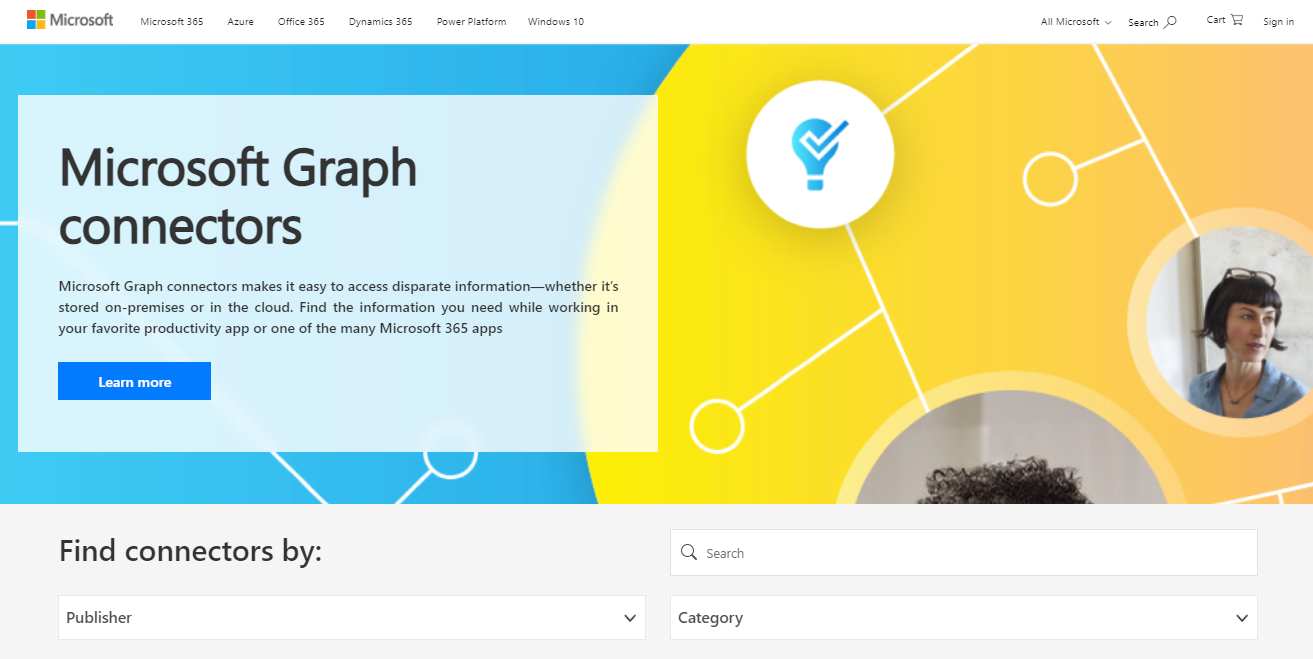
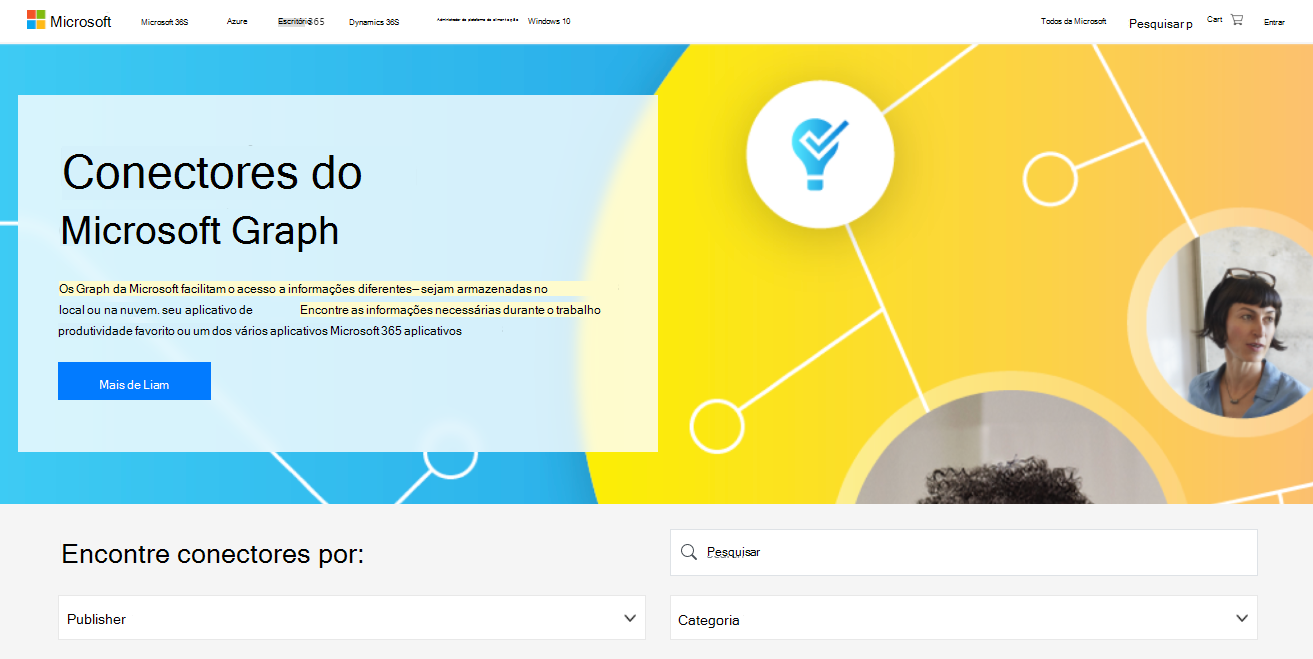
commit translated contents

diff --git a/MicrosoftSearch/customize-search-page.md b/MicrosoftSearch/customize-search-page.md
@@ -1,5 +1,5 @@
 ---
-title: Personalizar a página de Pesquisa da Microsoft
+title: Personalizar a Pesquisa da Microsoft página
 ms.author: jeffkizn
 author: jypal
 manager: jeffkizn
@@ -12,27 +12,27 @@ search.appverid:
 - MET150
 - MOE150
 description: Adicionar verticais de pesquisa e personalizar resultados de pesquisa
-ms.openlocfilehash: e5c4ab8d507e0e6096a5b9d52dc0e818faebefb6
-ms.sourcegitcommit: a07c957dfa1d31542f0362379251bc9679dfae41
+ms.openlocfilehash: 6b6f0593a668e9c2c5c7fc5a62f7b5dd4a43a8bb
+ms.sourcegitcommit: ea6905626de67090141039565282e4e0c53b43ac
 ms.translationtype: MT
 ms.contentlocale: pt-BR
-ms.lasthandoff: 04/08/2021
-ms.locfileid: "51639849"
+ms.lasthandoff: 07/07/2021
+ms.locfileid: "53314015"
 ---
 # <a name="customize-the-search-results-page"></a>Personalizar a página de resultados da pesquisa
 
-Você pode criar tipos de resultados e verticais de pesquisa para personalizar os resultados de pesquisa que os usuários veem quando pesquisam no Microsoft [SharePoint](https://sharepoint.com/), [Microsoft Office](https://office.com)e na Pesquisa da Microsoft no [Bing](https://bing.com). As verticais facilitam que os usuários encontrem as informações que eles têm permissão para ver. Por exemplo, você pode criar uma pesquisa vertical para dados de análise de marketing de software de terceiros para seus usuários no departamento de marketing. Você também pode definir tipos de resultados e personalizar o layout desses dados.  
+Você pode criar tipos de resultados e verticais de pesquisa para personalizar os resultados de pesquisa que os usuários veem quando pesquisam no Microsoft [SharePoint,](https://sharepoint.com/) [Microsoft Office](https://office.com)e Pesquisa da Microsoft em [Bing](https://bing.com). As verticais facilitam que os usuários encontrem as informações que eles têm permissão para ver. Por exemplo, você pode criar uma pesquisa vertical para dados de análise de marketing de software de terceiros para seus usuários no departamento de marketing. Você também pode definir tipos de resultados e personalizar o layout desses dados.  
 
 Você pode criar tipos de resultados e verticais nesses níveis:
 
-- **Nível da** organização – quando você adiciona uma vertical no nível da organização, ela aparece na página de resultados da pesquisa quando os usuários pesquisam na página inicial do [SharePoint,](https://sharepoint.com/) no [Office](https://office.com)ou no [Bing](https://bing.com).
-- **Nível do** site – Por exemplo, talvez você queira permitir que seus funcionários do serviço de atendimento ao cliente pesquisem incidentes de Gravidade *1* diretamente do site do SharePoint do departamento.
+- **Nível da** organização – quando você adiciona uma vertical no nível da organização, ela aparece na página de resultados da pesquisa quando os usuários pesquisam [na](https://sharepoint.com/) página inicial do SharePoint, no [Office](https://office.com)ou no [Bing](https://bing.com).
+- **Nível do** site – Por exemplo, talvez você queira permitir que seus funcionários do serviço de atendimento ao cliente pesquisem incidentes de Gravidade *1* diretamente do site de segurança SharePoint departamento.
 
 ## <a name="search-verticals-explained"></a>Pesquisas verticais explicadas
 
-Na parte superior da página de resultados da Pesquisa da Microsoft, há uma linha de guias. Estas são as verticais de pesquisa. Uma pesquisa vertical mostra apenas resultados de um determinado tipo ou de determinado conteúdo. Exemplos são **Arquivos** ou **Notícias.** Por padrão, a Pesquisa da Microsoft mostra as verticais **Todos**, **Pessoas,** **Arquivos,** **Sites** e **Notícias**.  
+Na parte superior da página Pesquisa da Microsoft resultados, há uma linha de guias. Estas são as verticais de pesquisa. Uma pesquisa vertical mostra apenas resultados de um determinado tipo ou de determinado conteúdo. Exemplos são **Arquivos** ou **Notícias.** Por padrão, Pesquisa da Microsoft mostra as verticais **Todos**, **Pessoas,** **Arquivos,** **Sites** e **Notícias**.  
 
-Você pode adicionar verticais de pesquisa relevantes à sua organização. Elas serão exibidas na página de resultados da Pesquisa da Microsoft no [SharePoint,](https://sharepoint.com/) [Office](https://Office.com)e [Bing.](https://bing.com) Por exemplo, você pode criar uma vertical para conteúdo relacionado ao marketing e outra para vendas, com base no tipo de informação que cada grupo precisa. Você pode adicionar verticais para mostrar resultados somente de conteúdo indexado por meio de conectores.  
+Você pode adicionar verticais de pesquisa relevantes à sua organização. Elas serão exibidas na página Pesquisa da Microsoft resultados em [SharePoint,](https://sharepoint.com/) [Office](https://Office.com)e [Bing](https://bing.com). Por exemplo, você pode criar uma vertical para conteúdo relacionado ao marketing e outra para vendas, com base no tipo de informação que cada grupo precisa. Você pode adicionar verticais para mostrar resultados somente de conteúdo indexado por meio de conectores.  
 
 ### <a name="multiple-connections-in-a-vertical"></a>Várias conexões em um vertical
 
@@ -53,7 +53,7 @@ Se você nomear com precisão quantos rótulos semânticos for possível, essa e
 
 Antes de iniciar, certifique-se de que o conector foi indexado. Isso pode levar até 48 horas, dependendo do tamanho do arquivo.
 
-Não é possível criar uma vertical para conteúdo que reside no [SharePoint](https://sharepoint.com/).
+Não é possível criar uma vertical para conteúdo que reside em [SharePoint](https://sharepoint.com/).
 
 Há três etapas básicas para adicionar um vertical:
 
@@ -66,19 +66,20 @@ Há três etapas básicas para adicionar um vertical:
 Depois de iniciar o assistente, você é orientado pelas etapas para definir o nome vertical, a fonte de conteúdo e o escopo do conteúdo a ser pesquisado. A vertical é criada em um estado desabilitado. Você a habilitará mais tarde.
 
 Você pode usar um conjunto limitado de [KQL (Keyword Query Language) para](/sharepoint/dev/general-development/keyword-query-language-kql-syntax-reference) restringir o escopo. Esta página lista as propriedades disponíveis. Recomendamos que você use palavras-chave de texto livre e restrições de propriedade com operadores boolianas para criar o KQL.
+O KQL também dá suporte ao uso de [variáveis de consulta](#profile-query-variables) de perfil para ajustar os resultados na vertical.
 
 ### <a name="create-a-vertical-at-the-organization-level"></a>Criar uma vertical no nível da organização
 
-Para criar a vertical na Pesquisa da Microsoft no [SharePoint](https://sharepoint.com/) home, [Office](https://office.com)ou [Bing,](https://bing.com)siga estas etapas:
+Para criar a vertical no Pesquisa da Microsoft [em](https://sharepoint.com/) [SharePoint,](https://office.com)Office , ou [Bing](https://bing.com), siga estas etapas:
 
-1. No Centro de administração do [Microsoft 365,](https://admin.microsoft.com)vá para [**Verticals**](https://admin.microsoft.com/Adminportal/Home#/MicrosoftSearch/verticals).
+1. No [Centro de administração do Microsoft 365,](https://admin.microsoft.com)vá para [**Verticals**](https://admin.microsoft.com/Adminportal/Home#/MicrosoftSearch/verticals).
 2. Selecione **Adicionar** para começar.  
 
 ### <a name="create-a-vertical-at-the-site-level"></a>Criar uma vertical no nível do site
 
-1. No site [do SharePoint](https://sharepoint.com/) onde você deseja a vertical, vá para **Configurações**.
+1. No site [SharePoint](https://sharepoint.com/) onde você deseja verticais, vá para **Configurações**.
 2. Selecione **Informações do site** e, em **seguida, Exibir todas as configurações do site**.
-3. Procure a seção **Pesquisa da Microsoft** e selecione Configurar a Pesquisa da Microsoft para este conjunto de **sites.**
+3. Procure a seção **Pesquisa da Microsoft** e selecione Configurar Pesquisa da Microsoft **para este conjunto de sites.**
 4. No painel de navegação, vá para **Experiência personalizada** e selecione a **guia Verticals.**
 5. Para adicionar um vertical, selecione **Adicionar**.
   Ou, para editar uma vertical, selecione-a na lista.
@@ -98,7 +99,7 @@ Um layout de resultado de pesquisa  padrão será mostrado para conteúdo do Con
 Você pode optar por criar seu próprio layout de resultado de pesquisa e substituir o layout padrão do resultado da pesquisa criando um **tipo de resultado**. O tipo do resultado de pesquisa é uma função que faz com que diferentes tipos de resultados de pesquisa sejam exibidos de diferentes maneiras. Ele consiste no seguinte:
 
 - **Uma ou mais condições para** comparar cada resultado de pesquisa, como a fonte de conteúdo do resultado da pesquisa.  
-- Um **layout de resultado** a ser usado para resultados de pesquisa que atendem às condições. O layout de resultados controla a forma como todos os resultados que atendem às condições aparecem e se comportam em uma página de resultados de pesquisa.
+- Um **layout de resultado** a ser usado para resultados de pesquisa que atendem às condições. O layout resultante controla a forma como todos os resultados que atendem às condições aparecem e se comportam em uma página de resultados de pesquisa.
 
 **Se o mapeamento apropriado não for feito para mostrar o layout padrão do resultado da pesquisa, você deve criar pelo menos um tipo de resultado para que os resultados seja exibidos na vertical.** Você pode criar vários tipos de resultados para cada vertical, o que permite usar layouts diferentes para diferentes tipos de resultados. Por exemplo, você pode personalizar *incidentes de* Gravidade 1 para ter cores mais proeminentes e uma fonte maior em comparação com incidentes de Gravidade *3.*
 
@@ -106,23 +107,89 @@ Depois de iniciar o assistente, você é orientado pelas etapas para definir o n
   
 ### <a name="create-a-result-type-at-the-organization-level"></a>Criar um tipo de resultado no nível da organização
 
-1. No Centro de administração do [Microsoft 365,](https://admin.microsoft.com)vá para [**Tipos de resultado.**](https://admin.microsoft.com/Adminportal/Home#/MicrosoftSearch/resulttypes)
+1. Na [Centro de administração do Microsoft 365,](https://admin.microsoft.com)vá para [**Tipos de resultado**](https://admin.microsoft.com/Adminportal/Home#/MicrosoftSearch/resulttypes).
 2. Para adicionar um **tipo de resultado,** selecione **Adicionar**. Para editar um tipo de resultado, selecione o tipo de resultado na lista relevante.
 
 ### <a name="create-a-results-type-at-the-site-level"></a>Criar um tipo de resultados no nível do site
 
-1. No site [do SharePoint](https://sharepoint.com/) onde você deseja criar o tipo de resultado, vá para **Configurações**.
+1. No site [SharePoint](https://sharepoint.com/) onde você deseja criar o tipo de resultado, vá para **Configurações**.
 2. Selecione **Informações do site** e, em **seguida, Exibir todas as configurações do site**.
-3. Procure a seção Pesquisa da Microsoft e selecione **Configurar a Pesquisa da Microsoft para este conjunto de sites.**
+3. Procure a seção Pesquisa da Microsoft e selecione Configurar Pesquisa da Microsoft **para este conjunto de sites.**
 4. No painel de navegação, vá para **Experiência personalizada** e selecione Guia **Tipo de** resultado.
 5. Para adicionar um tipo de resultado, selecione **Adicionar**.  Ou, para editar um tipo de resultado, selecione o tipo de resultado na lista.
 
 ## <a name="step-3-view-the-vertical-after-its-enabled"></a>ETAPA 3: Exibir a vertical depois de habilitada
 
-Depois de habilitar a vertical, levará algumas horas para poder exibi-la. Se você não quiser esperar depois de habilita-lo, você pode anexar **cacheClear=true** à URL no [SharePoint](https://sharepoint.com/) e [no Office](https://office.com) para exibir o vertical imediatamente. Para [Bing](https://bing.com),&**features=uncachedVerticals** para a URL vertical de Trabalho para exibir as verticais imediatamente. 
+Depois de habilitar a vertical, levará algumas horas para poder exibi-la. Se você não quiser esperar depois de habilita-lo, você pode anexar **cacheClear=true** à URL no [SharePoint](https://sharepoint.com/) e [Office](https://office.com) para exibir a vertical imediatamente. Para [Bing](https://bing.com), anexar&**features=uncachedVerticals** à URL vertical de Trabalho para exibir as verticais imediatamente.
 
 > [!NOTE]
-> As verticais adicionadas não estarão visíveis no [SharePoint](https://sharepoint.com/) e [no Office quando](https://office.com) exibidas de navegadores da Web móveis.
+> As verticais adicionadas não estarão visíveis SharePoint [e](https://sharepoint.com/) [Office](https://office.com) quando exibidas de navegadores da Web móveis.
+
+## <a name="profile-query-variables"></a>Variáveis de consulta de perfil
+
+As variáveis de consulta são usadas na seção de consulta KQL de uma vertical para fornecer dados dinâmicos como uma entrada para a consulta de uma vertical. Você pode usar as variáveis de consulta de perfil para tornar os resultados da pesquisa contextuais para o usuário in-locar. As variáveis de consulta de perfil buscam valores do perfil do usuário [de entrada.](/graph/api/resources/profile?view=graph-rest-beta)
+
+Por exemplo, se você quiser criar uma vertical "Tíquetes" onde um usuário inscreveu pode pesquisar por tíquetes de suporte atribuídos a eles, você pode especificar a seguinte consulta na seção "Consulta" durante a criação vertical na página de administração.  
+
+**AssignedTo:{Profile.accounts.userPrincipalName}**
+
+Isso restringirá os resultados da pesquisa para mostrar apenas os itens em que o destinatário é o usuário que está executando a pesquisa.
+
+[O recurso Profile](https://graph.microsoft.com/graph/api/resources/profile?view=graph-rest-beta) expõe propriedades como coleções. Por exemplo, informações relacionadas a endereços de email são expostas por meio de coleta de emails, posições de trabalho como conjunto de posições e assim por diante. Todas as propriedades disponíveis no perfil de usuário, que têm o AAD como o tipo de origem, são expostas como variáveis de consulta.
+
+Considere um usuário que tenha 3 endereços de email disponíveis no conjunto de emails, conforme mostrado abaixo.
+
+```json
+"emails": [{ 
+
+        "address": "Megan.Bowen@contoso.com",
+        "id": "xyz", 
+        "source": { 
+            "CreatedBy": "xyz", 
+            "CreatedOn": "2222", 
+            "Type": "official" 
+        },
+        "type": "main" 
+    }, { 
+        "address": "meganb@hotmail.com",
+        "id": "abc", 
+        "source": { 
+            "CreatedBy": "abc",
+            "CreatedOn": "3333", 
+            "Type": "non-official",
+        },
+        "type": "work"
+    }, { 
+        "address": "meganb@outlook.com",
+        "id": "pqr", 
+        "source": { 
+            "CreatedBy": "pqr", 
+            "CreatedOn": "4444", 
+            "Type": "personal" 
+        },
+        "type": "personal" 
+    } 
+] 
+```
+
+- A consulta **MyProperty: {Profile.emails.address}** resolverá para MyProperty: "Megan.Bowen@contoso.com".  
+
+- Se desejar resolver todos os valores do atributo address, você terá que usar a sintaxe de expansão de vários valores. A consulta **{| MyProperty:{Profile.emails.address}}** resolverá para ((MyProperty:"Megan.Bowen@contoso.com") OR (MyProperty: "meganb@hotmail.com") OR (MyProperty:"meganb@outlook.com"))  
+
+O operador "|" deve ser usado para resolver variáveis de vários valores. Para obter mais exemplos de expansão de perfil, consulte a tabela abaixo.
+
+| #         | Sintaxe |  Valor retornado  |
+| --------- | ------ | --- |
+| 1    | MyProperty:{Profile.emails.address}  |   "Megan.Bowen@contoso.com"  |
+| 2 | MyProperty:{Profile.emails}   |    {Profile.emails} Isso não será resolvido porque os emails são um objeto.|
+| 3    | {? MyProperty:{Profile.emails}}  |  Isso não será resolvido porque os emails são um objeto. O "?" o operador ignora as variáveis de consulta que não são resolvidas. Essa variável será removida quando passada para baixo na pilha de consulta.   |
+| 4  | {&#124;MyProperty: {Profile.emails.source.Type}}    |  ((MyProperty:"official") OR (MyProperty:"non-official") OR (MyProperty:"personal"))    |
+
+> [!NOTE]
+>
+> - As variáveis de consulta de perfil só têm suporte para verticais personalizadas usando [um conector](connectors-overview.md) como fonte de conteúdo.
+> - As variáveis de consulta de perfil são definidas na seção "Consulta" do [processo de configuração vertical](customize-search-page.md#step-1-create-the-search-vertical).
+> - As variáveis de consulta de perfil estão atualmente em visualização. Para obter mais informações sobre visualização, consulte [Conectores recursos de visualização](connectors-overview.md#what-are-the-preview-features).
 
 ## <a name="troubleshooting"></a>Solução de problemas
 

diff --git a/MicrosoftSearch/usage-reports.md b/MicrosoftSearch/usage-reports.md
@@ -7,30 +7,30 @@ ms.topic: article
 ms.service: mssearch
 audience: Admin
 ms.audience: Admin
-ms.date: 04/09/2021
+ms.date: 07/02/2021
 localization_priority: Normal
 search.appverid:
 - BFB160
 - MET150
 - MOE150
-description: Revisar relatórios de uso da Pesquisa da Microsoft
-ms.openlocfilehash: 17645d86e315538305a28bad51ea1a41dcc37dcb
-ms.sourcegitcommit: d62849b00f2b65b493ab54be50c3e7c94430f057
+description: Analisar Pesquisa da Microsoft relatórios de uso
+ms.openlocfilehash: 83a2d895ac251affdd5e1c9ea3b0d0fffcecc5a4
+ms.sourcegitcommit: 36a699554bfe9debdb9a33e942597cceb575666b
 ms.translationtype: MT
 ms.contentlocale: pt-BR
-ms.lasthandoff: 04/14/2021
-ms.locfileid: "51754660"
+ms.lasthandoff: 07/03/2021
+ms.locfileid: "53285554"
 ---
-# <a name="microsoft-search-usage-reports"></a>Relatórios de uso da Pesquisa da Microsoft
+# <a name="microsoft-search-usage-reports"></a>Pesquisa da Microsoft Relatórios de uso
 
 Os relatórios de uso da pesquisa permitem que você obtenha mais compreensão de como a pesquisa está funcionando em sua organização. As percepções geradas a [](./make-content-easy-to-find.md) partir desses relatórios ajudarão você a tornar o conteúdo fácil de encontrar e realizar ações que tornarão a pesquisa uma experiência mais útil e agradável para seus usuários.
 
 > [!IMPORTANT]
-> Os relatórios de uso da Pesquisa da Microsoft estão atualmente em visualização
+> Pesquisa da Microsoft relatórios de uso estão atualmente em visualização
 
-Os [relatórios de uso da Pesquisa](https://admin.microsoft.com/Adminportal/Home?#/MicrosoftSearch/insights) da Microsoft incluem gráficos e tabelas gerados a partir de pesquisas executadas no SharePoint Home e Office.com de pesquisa. Você pode ver dados dos últimos 31 dias, por dia ou mensalmente do ano anterior. Esses relatórios estão apenas sendo divulgados, portanto, levará tempo para acumular os dados históricos.
+Os [Pesquisa da Microsoft](https://admin.microsoft.com/Adminportal/Home?#/MicrosoftSearch/insights) de uso incluem gráficos e tabelas gerados a partir de pesquisas executadas SharePoint Home, Office.com e Pesquisa da Microsoft em caixas de pesquisa Bing. Você pode ver dados dos últimos 31 dias, por dia ou mensalmente do ano anterior. Esses relatórios estão apenas sendo divulgados, portanto, levará tempo para acumular os dados históricos.
 
-Uma versão anterior desta página incluía dados de pesquisas executadas para a Pesquisa da Microsoft no Bing no Bing.com. Esses dados serão integrados a esses relatórios em breve, mas, por enquanto, você ainda pode ver esses relatórios clicando no link na parte inferior da página para Exibir as principais consultas e distribuição de impressão do **Bing.**
+Uma versão anterior desta página incluía dados de pesquisas executadas apenas para Pesquisa da Microsoft em Bing em Bing.com. Esses dados agora estão integrados a esses relatórios; você ainda pode ver a página antiga clicando no link na parte inferior da página para Exibir Bing principais consultas e distribuição **de impressão do Bing.** Este link e a página antiga serão removidos em breve.
 
 > [!div class="mx-imgBorder"]
 > ![Painel de relatórios de uso de pesquisa](media/usage-reports/usage_reports_v2.png)
@@ -41,8 +41,8 @@ Uma versão anterior desta página incluía dados de pesquisas executadas para a
 |:-----|:-----|
 |Volume da consulta|Esse relatório mostra o número de consultas de pesquisa executadas. Use este relatório para identificar tendências de volume de consulta de pesquisa e para determinar períodos de atividade de pesquisa alta e baixa.|
 |Principais Consultas|Esse relatório mostra as consultas de pesquisa mais populares. Uma consulta é adicionada a esse relatório quando ela é pesquisada pelo menos três vezes com um clique em um resultado. Use este relatório para entender quais tipos de informações seus usuários estão procurando.|
-|Consultas abandonadas|Este relatório mostra consultas de pesquisa populares que recebem baixo clique. Use esse relatório para identificar consultas de pesquisa que podem levar à insatisfação do usuário e para aprimorar a capacidade de descoberta de conteúdo. Em seguida, você pode determinar se criar uma resposta, como um Indicador, ou ingerir novo conteúdo por meio de um conector do Graph é a ação certa.|
-|Sem consultas de resultados|Esse relatório mostra consultas de pesquisa populares que retornaram sem resultado. Use-o para identificar as consultas que podem criar insatisfação do usuário e aprimorar a capacidade de descoberta do conteúdo. Em seguida, você pode determinar se criar uma resposta, como um Indicador, ou ingerir novo conteúdo por meio de um conector do Graph é a ação certa.|
+|Consultas abandonadas|Este relatório mostra consultas de pesquisa populares que recebem baixo clique. Use esse relatório para identificar consultas de pesquisa que podem levar à insatisfação do usuário e para aprimorar a capacidade de descoberta de conteúdo. Em seguida, você pode determinar se criar uma resposta, como um Indicador, ou ingerir novo conteúdo por meio de um conector Graph é a ação certa.|
+|Sem consultas de resultados|Esse relatório mostra consultas de pesquisa populares que retornaram sem resultado. Use-o para identificar as consultas que podem criar insatisfação do usuário e aprimorar a capacidade de descoberta do conteúdo. Em seguida, você pode determinar se criar uma resposta, como um Indicador, ou ingerir novo conteúdo por meio de um conector Graph é a ação certa.|
 
 >[!NOTE]
 >Atualmente, há um problema conhecido em que as consultas atendidas por uma resposta como um Indicador são contadas como uma consulta abandonada.
@@ -51,9 +51,9 @@ Uma versão anterior desta página incluía dados de pesquisas executadas para a
 
 Quando você navega até a página relatórios de uso, todos os relatórios estão disponíveis para exibição. Você pode usar o filtro de data para escolher um dia ou mês específico para exibição.
 
-Baixar um relatório permitirá que você veja relatórios de um intervalo de tempo mais amplo. Clique na seta de download e selecione **últimos 31 dias** **ou últimos 12 meses.** O relatório é baixado como uma planilha do Excel. Se você tiver selecionado os últimos 31 dias, a planilha terá uma guia individual para cada dia. O download dos últimos 12 meses terá uma guia para cada mês.
+Baixar um relatório permitirá que você veja relatórios de um intervalo de tempo mais amplo. Clique na seta de download e selecione **últimos 31 dias** **ou últimos 12 meses.** O relatório é baixado como uma Excel de dados. Se você tiver selecionado os últimos 31 dias, a planilha terá uma guia individual para cada dia. O download dos últimos 12 meses terá uma guia para cada mês.
 
-Para exibir as principais consultas e relatórios de distribuição de impressão do Bing, clique no link na página.
+Para exibir Bing principais consultas e relatórios de distribuição de impressão, clique no link na página.
 
 ## <a name="frequently-asked-questions"></a>Perguntas frequentes
 
@@ -63,18 +63,14 @@ A exibição do calendário, hoje, nos relatórios de uso da pesquisa da Microso
 
 As tabelas de consulta superior, abandonadas e com falha mostram resultados do dia ou do mês escolhido.
 
-**Quando vou ver os dados agregados dos últimos 7 dias, dos últimos 30 dias e assim por diante... Como os principais relatórios de consultas do Bing?**
+**Quando vou ver os dados agregados dos últimos 7 dias, dos últimos 30 dias e assim por diante... Como Bing principais relatórios de consultas?**
 
 Estamos considerando esse tipo de agregação e simplificando a filtragem do intervalo de dados para versões futuras desses relatórios.
 
 **Por que não consigo ver uma divisão de relatórios de uso por diferentes aplicativos (fontes)?**
 
-Atualmente, a filtragem por fonte não está disponível. Os relatórios combinam pesquisas do SharePoint Home e Office.com. Nossa próxima versão incluirá filtragem de origem para que você possa ver métricas específicas para cada aplicativo.
+Atualmente, a filtragem por fonte não está disponível. Os relatórios combinam pesquisas de SharePoint Home e Office.com. Nossa próxima versão incluirá filtragem de origem para que você possa ver métricas específicas para cada aplicativo.
 
 **Que outra filtragem para relatórios de uso está chegando?**
 
 Estamos trabalhando em filtros adicionais que ajudarão a entender o uso da pesquisa em um nível mais granular da sua organização. Por exemplo, você poderá ver o volume de consulta para uma geografia ou departamento específico.
-
-**Por que a Pesquisa da Microsoft nos relatórios do Bing está em uma página separada?**
-
-A modernização da pesquisa nos aplicativos do Office 365 para a Pesquisa da Microsoft exigiu que insinuá-los em sistemas anteriormente diferentes, incluindo a geração de relatórios. Isso leva tempo e achamos que era mais importante obter esses relatórios agora em vez de esperar até concluirmos a integração dos dados do Bing. Depois que concluirmos a integração, os dados de todos os pontos de extremidade de pesquisa serão incluídos nos mesmos relatórios.
